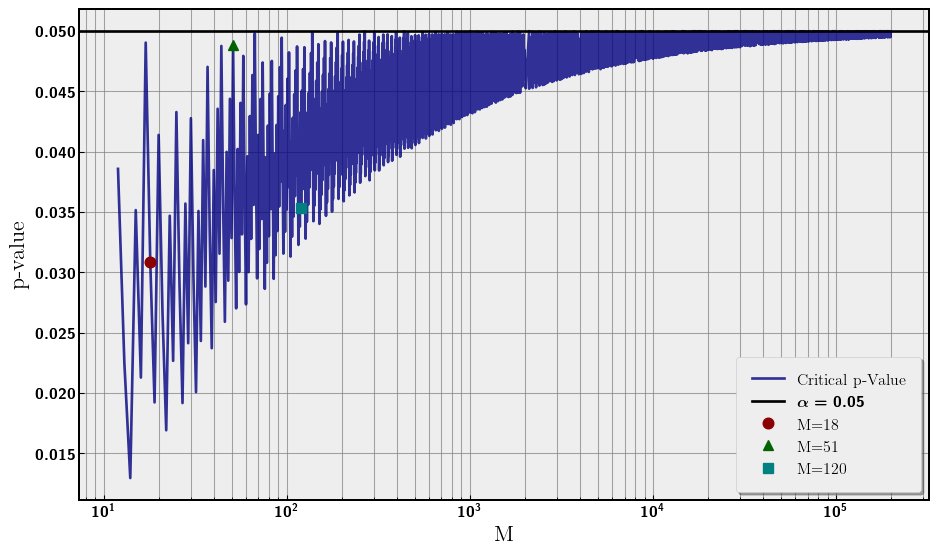
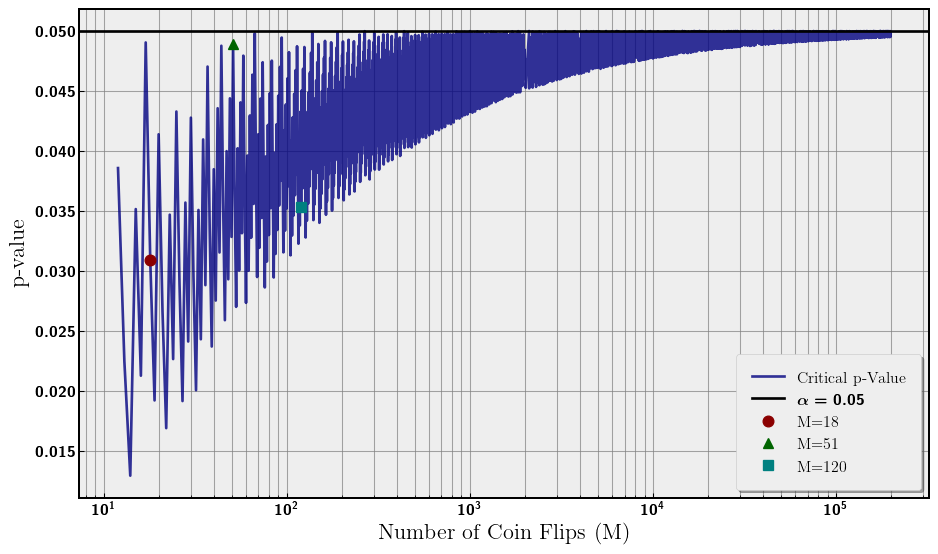
add abstract

diff --git a/README.md b/README.md
@@ -1,17 +1,23 @@
-# Multiple Testing Problem
+# Multiple Testing Problem in Statistics
 Evan Frangipane
 
-- [Problem Statement](#problem-statement)
+- [Abstract](#abstract)
+- [What is the Multiple Testing
+  Problem?](#what-is-the-multiple-testing-problem)
 - [Outlining the Simulation](#outlining-the-simulation)
 - [Discrepancy in FWER](#discrepancy-in-fwer)
 - [Correcting Significance](#correcting-significance)
 
-## Problem Statement
+## Abstract
+
+In this article I will describe the multiple testing problem, simulate a
+simple example, and outline a solution called the Bonferroni correction.
+
+## What is the Multiple Testing Problem?
 
 The main idea of the multiple testing problem is the more statistical
 tests we perform during an analysis, the higher our false positive rate
-(Type I Error), if left uncorrected. Imagine we choose our confidence
-level to be
+(Type I Error). Imagine we choose our confidence level to be
 ![95\\](https://latex.codecogs.com/svg.latex?95%5C%25 "95\%"),
 essentially we are choosing our false positive rate to be
 ![5\\](https://latex.codecogs.com/svg.latex?5%5C%25 "5\%") for one test.
@@ -181,7 +187,7 @@ plt.plot([Ms[index[1]]], [pvs[index[1]]], '^', label=labels[1], \
 plt.plot([Ms[index[2]]], [pvs[index[2]]], 's', label=labels[2], \
     color='teal', markersize=8, zorder=2)
 ax.set_xscale('log')
-ax.set_xlabel('M')
+ax.set_xlabel('Number of Coin Flips (M)')
 ax.set_ylabel('p-value')
 #plt.title('p-value of Critical Integer $(p_{\\text{crit}}< \\alpha)$')
 ax.legend(loc='lower right', frameon=True, shadow=True, borderpad=1)
